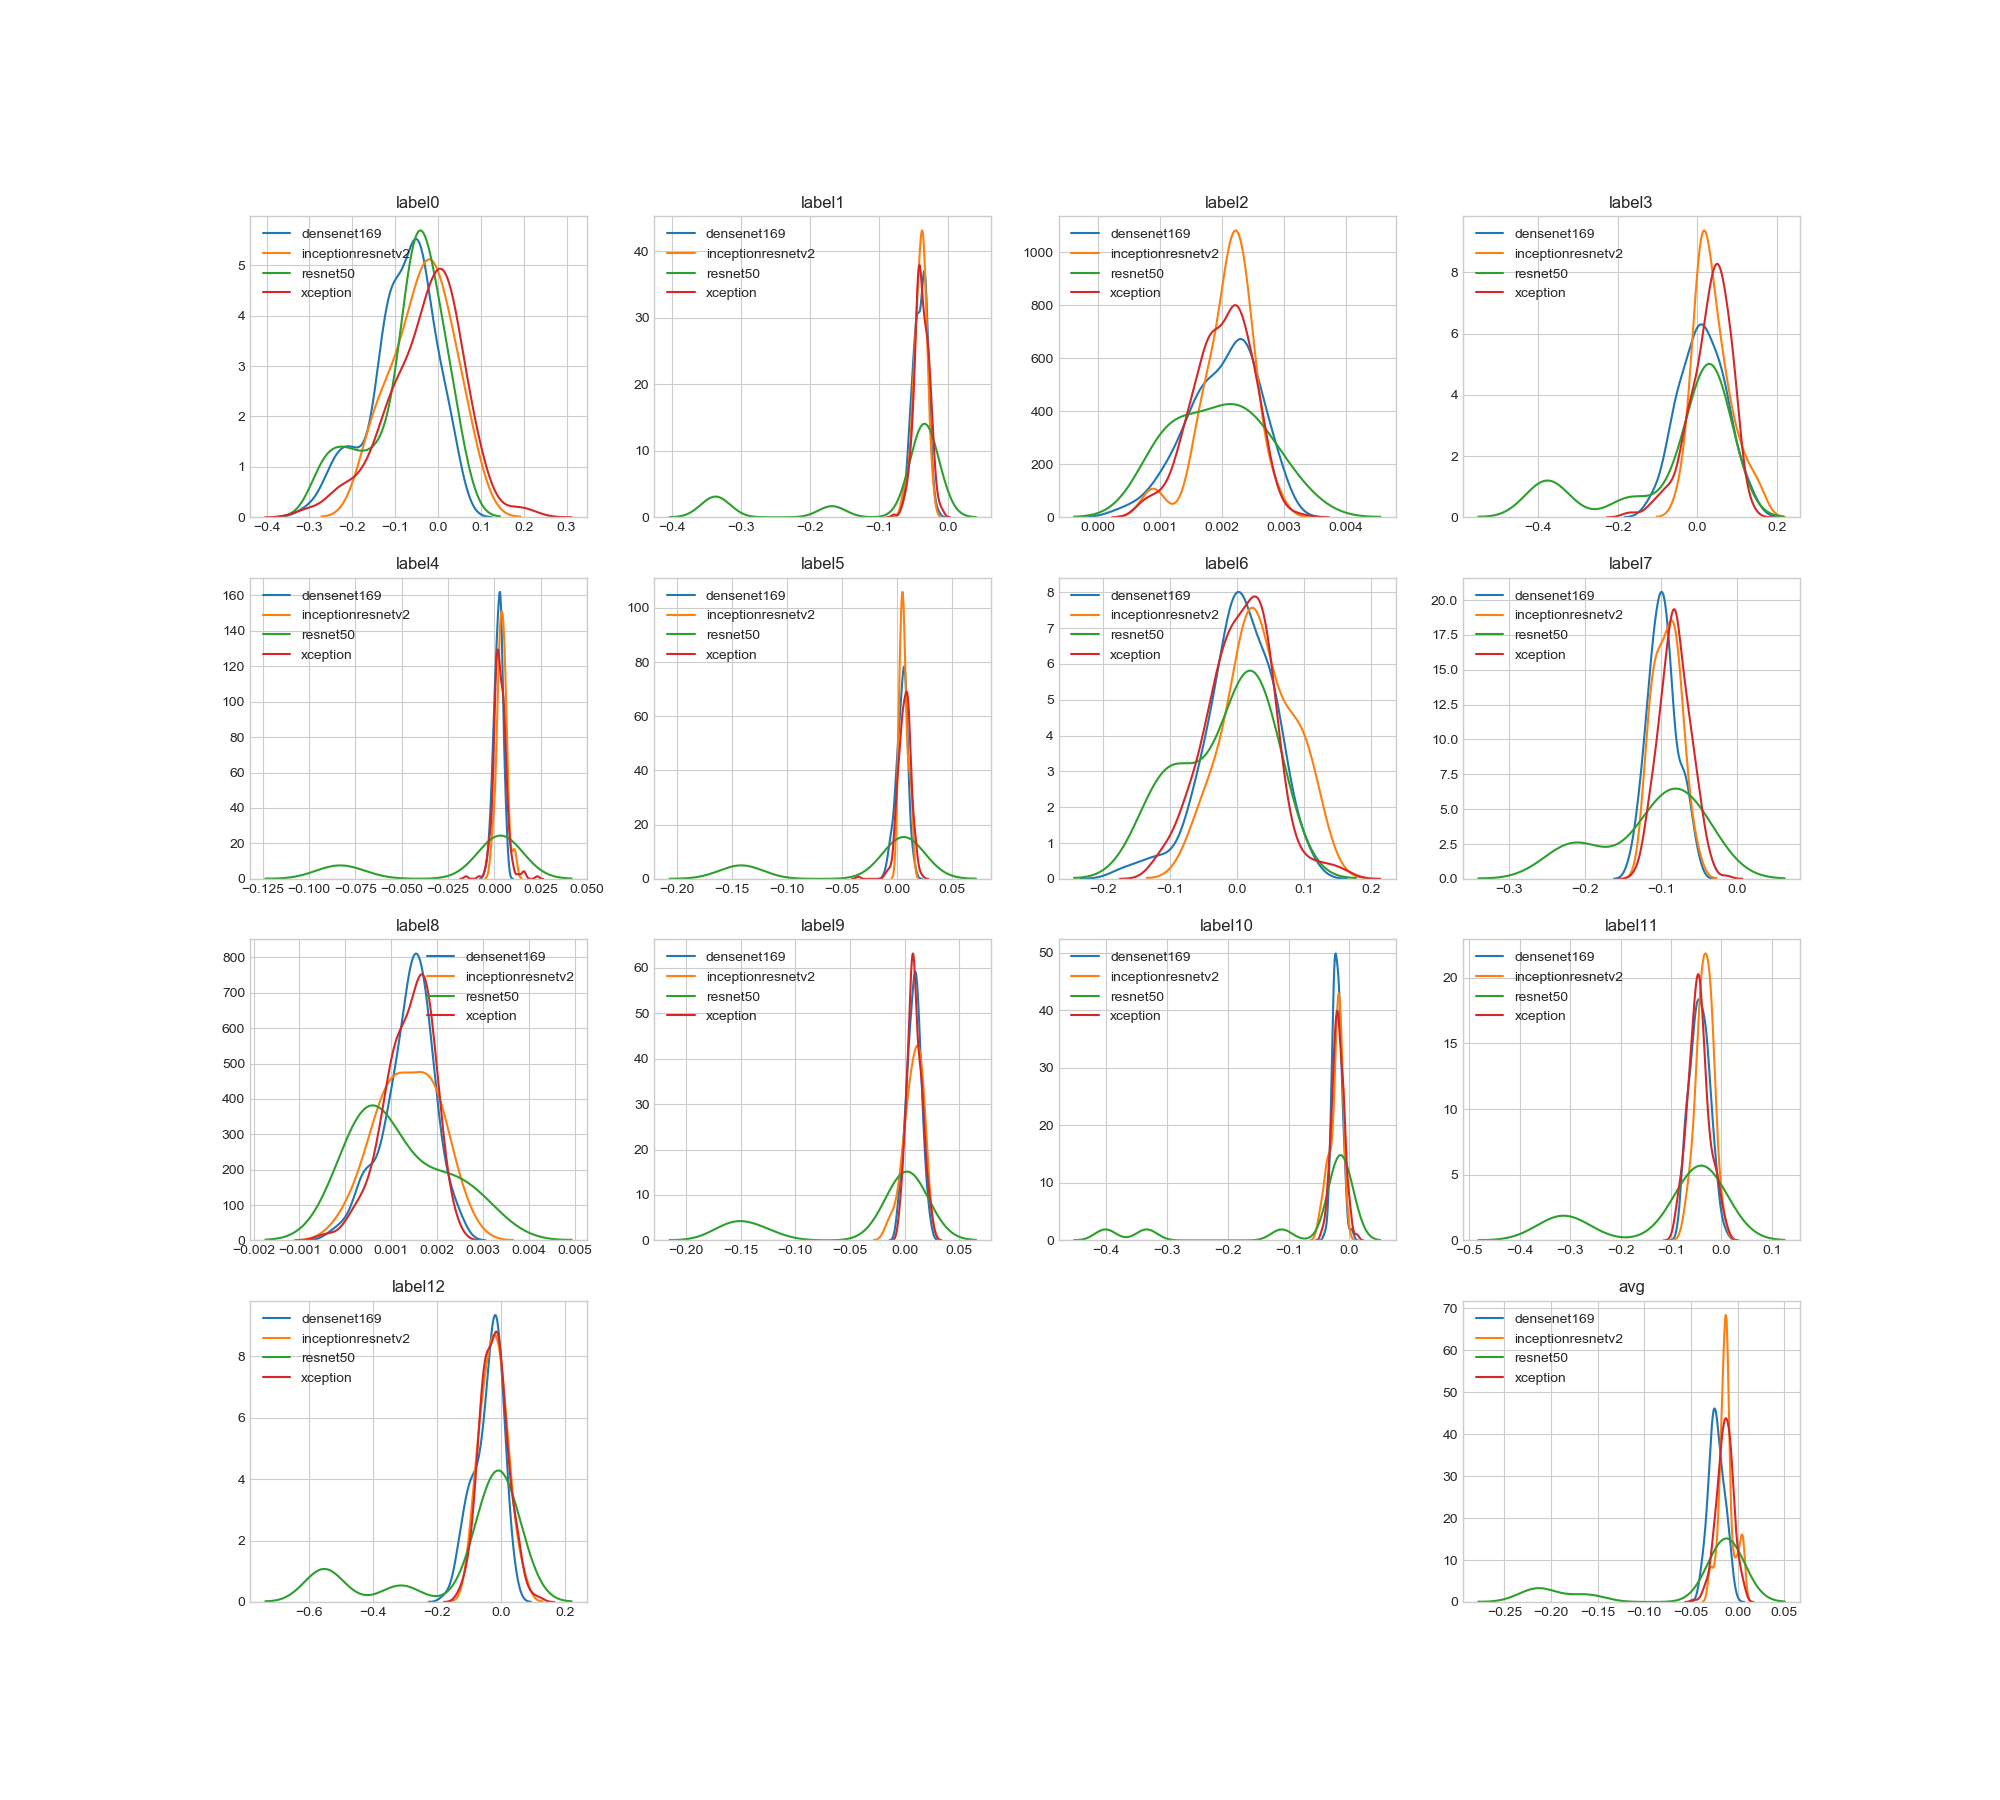
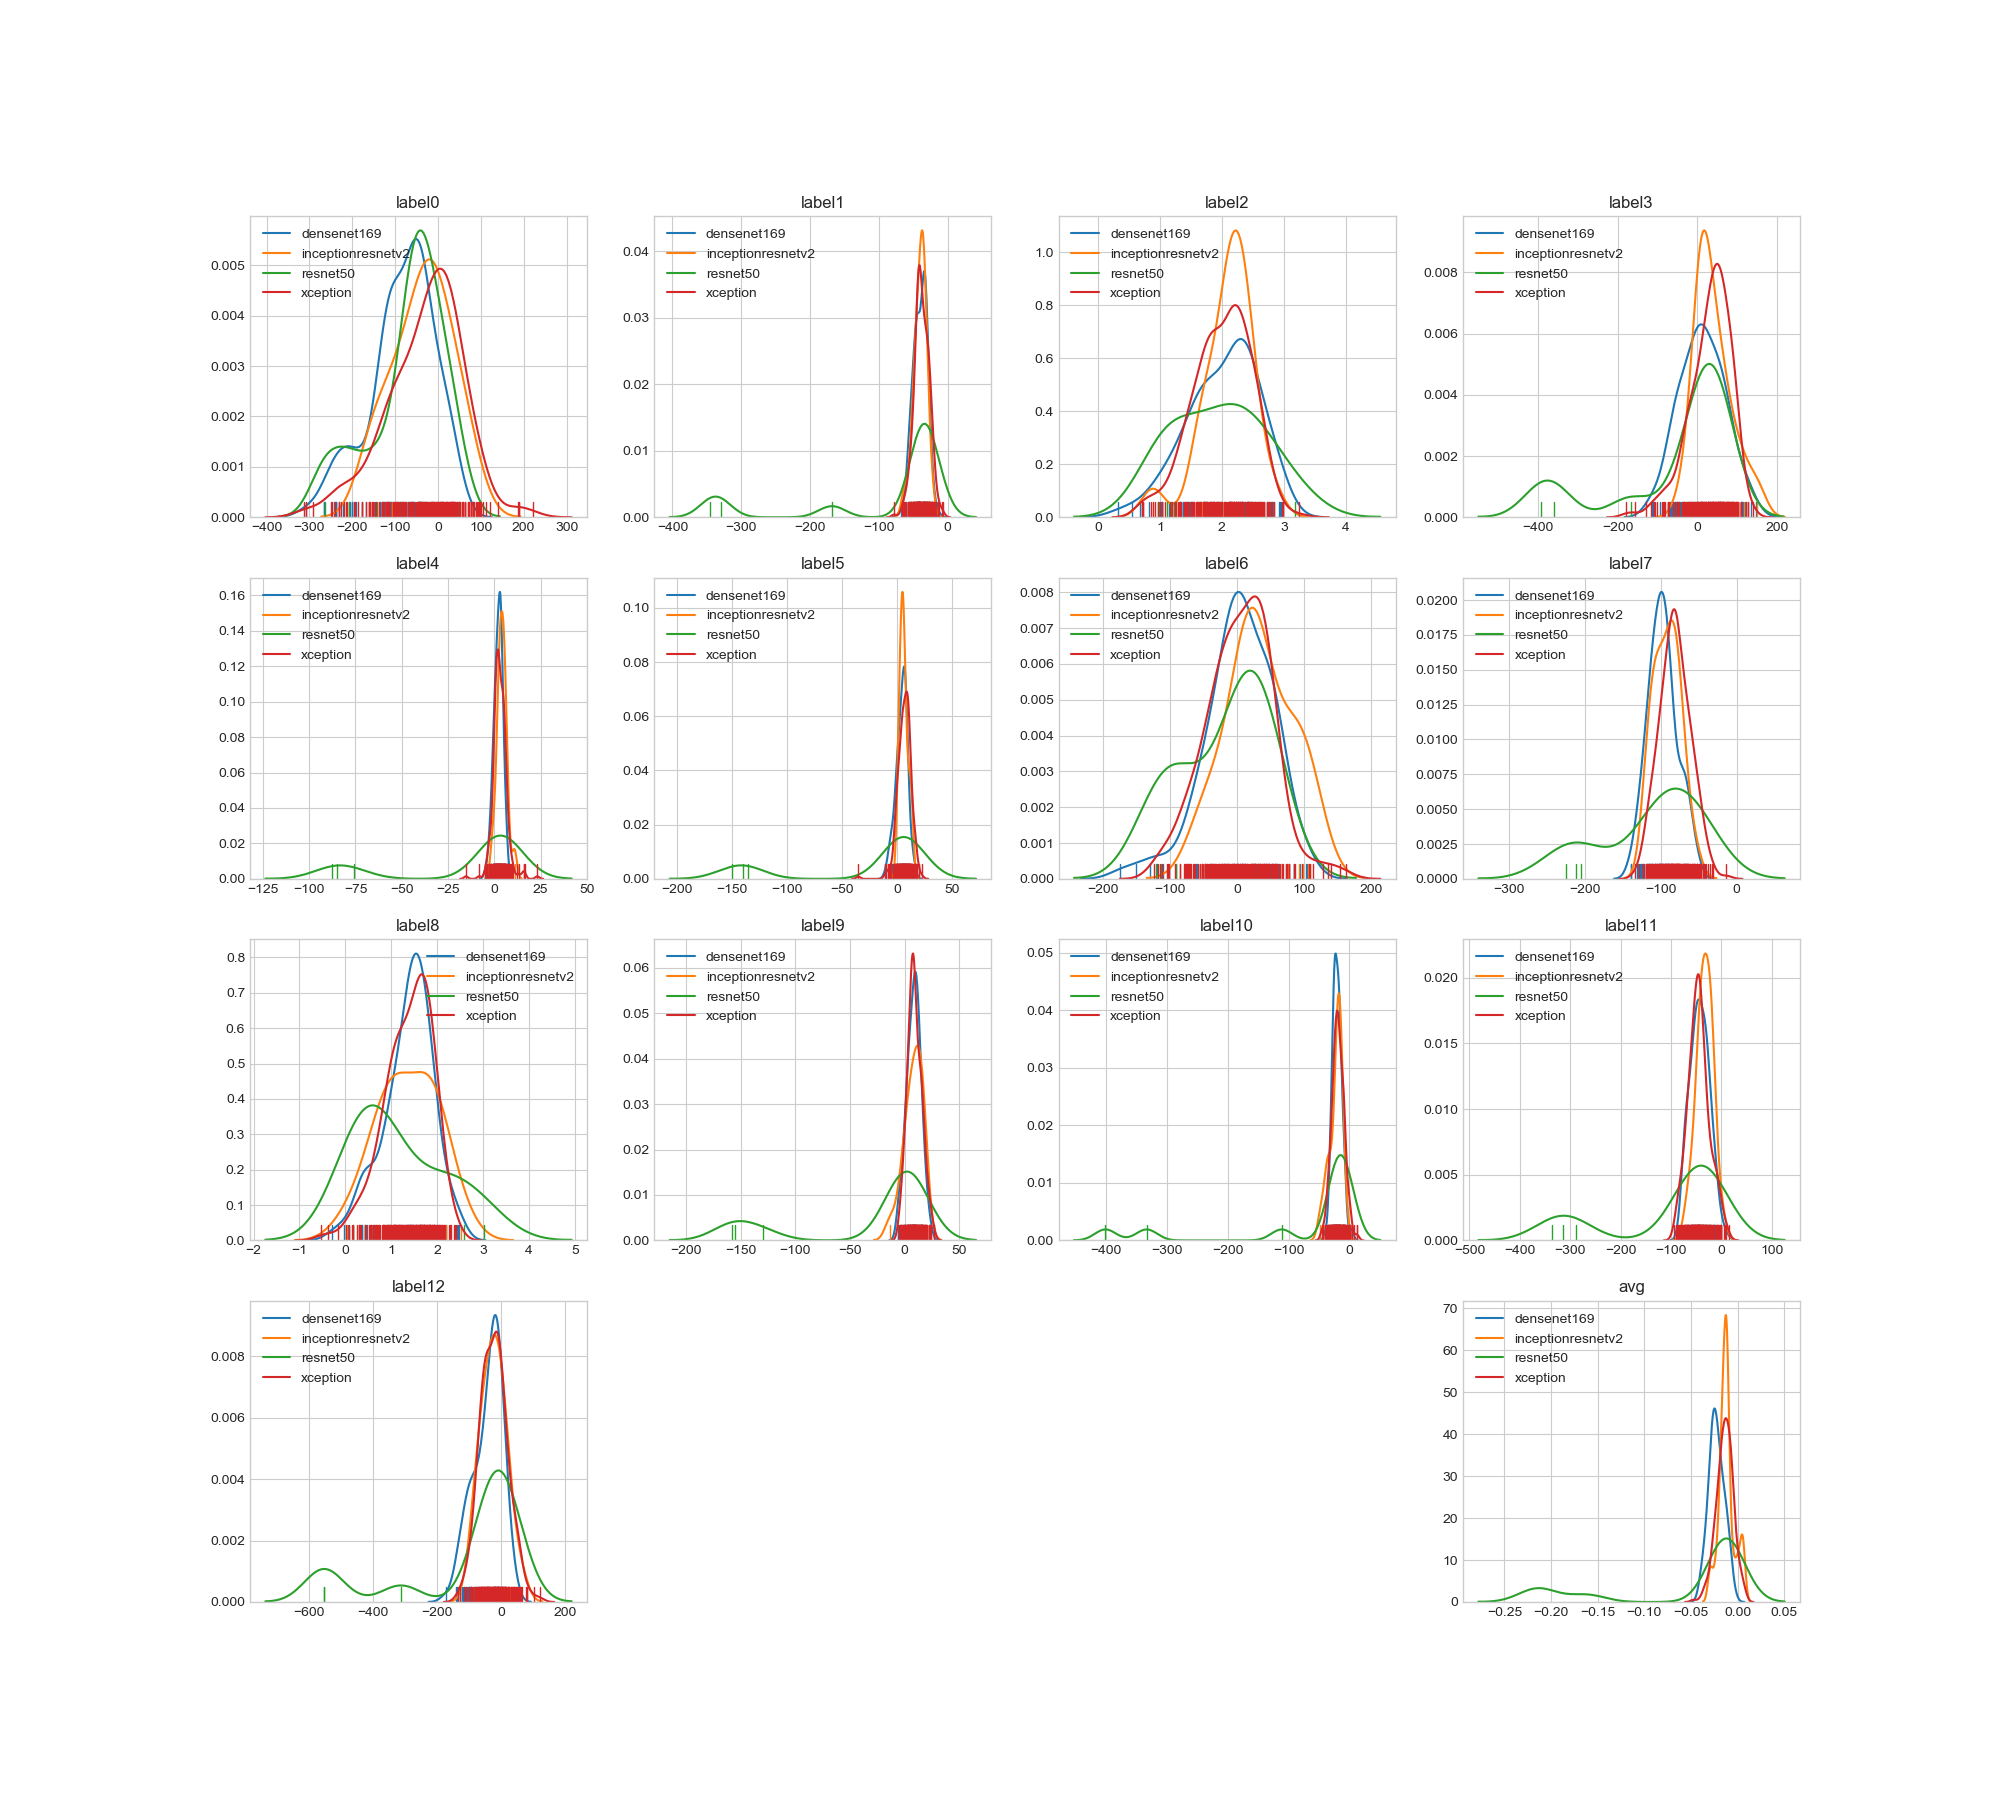
fix fig bug

diff --git a/util/experiment_visualization.py b/util/experiment_visualization.py
@@ -179,7 +179,7 @@ def get_epoch_cv_test_info_each_CNNS(file_cv=path.EPOCH_CV, file_test=path.EPOCH
         plt.title('label' + str(i))
         # plt.scatter(x=diff_frame['num'].values, y=diff_frame[str(i)].values, marker='.')
         # sns.lmplot(x='num', y=str(i), data=diff_frame)
-        for mod in model_list: sns.distplot(model_dic[mod][str(i)].values, hist=False, rug=False, ax=ax, label=mod)
+        for mod in model_list: sns.distplot(model_dic[mod][str(i)].values * 1000, hist=False, rug=True, ax=ax, label=mod)
         # plt.xlabel('model_label'+str(i))
         # plt.ylabel('f2-score_diff')
         # plt.savefig(os.path.join(FIG_SAVE_FILE, "epoch_cv_test_info_diff_label" + str(i)))
@@ -241,12 +241,11 @@ def get_threshold_cv_test_info(file_cv=path.THRESHOLD_CV, file_test=path.THRESHO
         # sns.lmplot(x='num', y=str(i), data=diff_frame)
         ax = plt.subplot(4, 4, i + 1)
         plt.title('label' + str(i))
-        sns.distplot(diff_frame[str(i)].values, hist=False, rug=True, ax=ax)
-        # plt.scatter(x=diff_frame['num'].values, y=diff_frame[str(i)].values, marker='.')
-        # plt.xlabel('label'+str(i))
-        # plt.savefig(os.path.join(FIG_SAVE_FILE, "threshold_cv_test_info_diff_label" + str(i)))
-        # plt.clf()
-    # plt.show()
+        sns.distplot(diff_frame[str(i)].values * 1000, hist=False, rug=True, ax=ax)
+    #     # plt.scatter(x=diff_frame['num'].values, y=diff_frame[str(i)].values, marker='.')
+    #     # plt.xlabel('label'+str(i))
+    #     # plt.savefig(os.path.join(FIG_SAVE_FILE, "threshold_cv_test_info_diff_label" + str(i)))
+    # # plt.show()
     plt.savefig(os.path.join(FIG_SAVE_FILE, "threshold_cv_test_info_diff"))
 
 def get_epoch_test_standard_info(file_cv=path.EPOCH_TEST, file_test=path.EPOCH_TEST_STANDARD):
@@ -402,8 +401,9 @@ if __name__ == "__main__":
     # Test_show_label_class_type_bar(TEST_FILE)
     # get_epoch_cv_test_info()
     # get_global_cv_test_info()
-    # get_threshold_cv_test_info()
+    get_threshold_cv_test_info()
     # get_epoch_test_standard_info()
-    # get_epoch_cv_test_info_each_CNNS()
+    get_epoch_cv_test_info_each_CNNS()
     # get_ensemble_cv_test_info()
+    # get_epoch_cv_test_info_each_CNNS()
     pass
